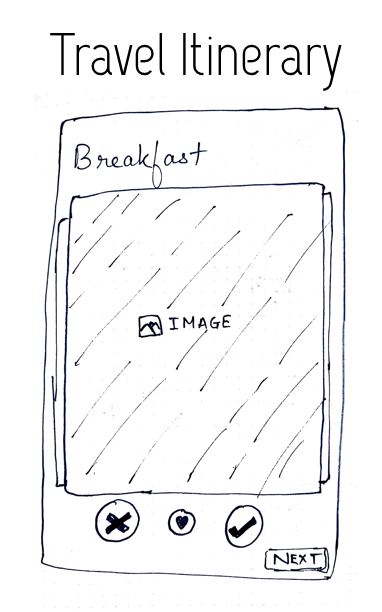
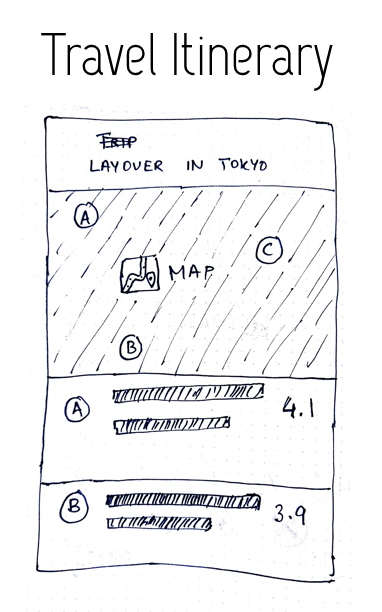
Updated README with features, API's, user stories

diff --git a/README.md b/README.md
@@ -32,5 +32,18 @@
 
 ## TODO
 
-- [x] Wireframes
-  - [ ] :star: Sketch layout and design
+- [x] Design
+  - [x] Wireframes - Brainstorm and draw the skeletal structure of the mobile app.
+  - [ ] :star: Sketch Prototypes - Make high fidelity prototypes using Sketch
+  - [x] :star: Logo - Make a logo
+
+- [ ] User Stories
+  - [ ] User should be able to plan their layover trip 
+  - [ ] User should be able to look for food, drinks, cafes, shops and outdoor attractions  
+
+- [ ] API's 
+  - [ ] [Foursquare] (https://developer.foursquare.com/) 
+
+- [ ] Navigation
+  - [x] Navigation Tree Structure  
+  - [x] Build Empty Screens   
